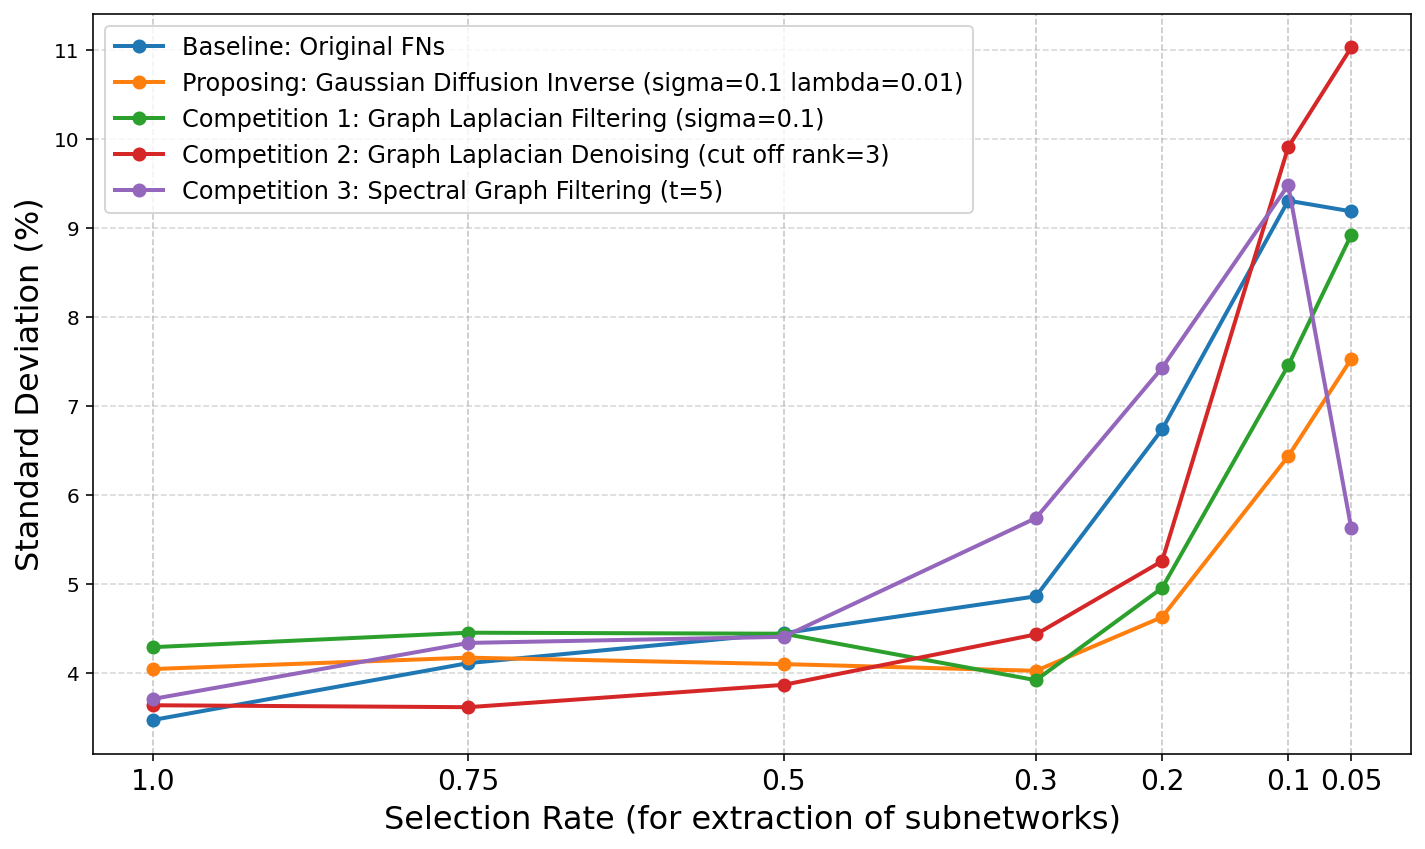
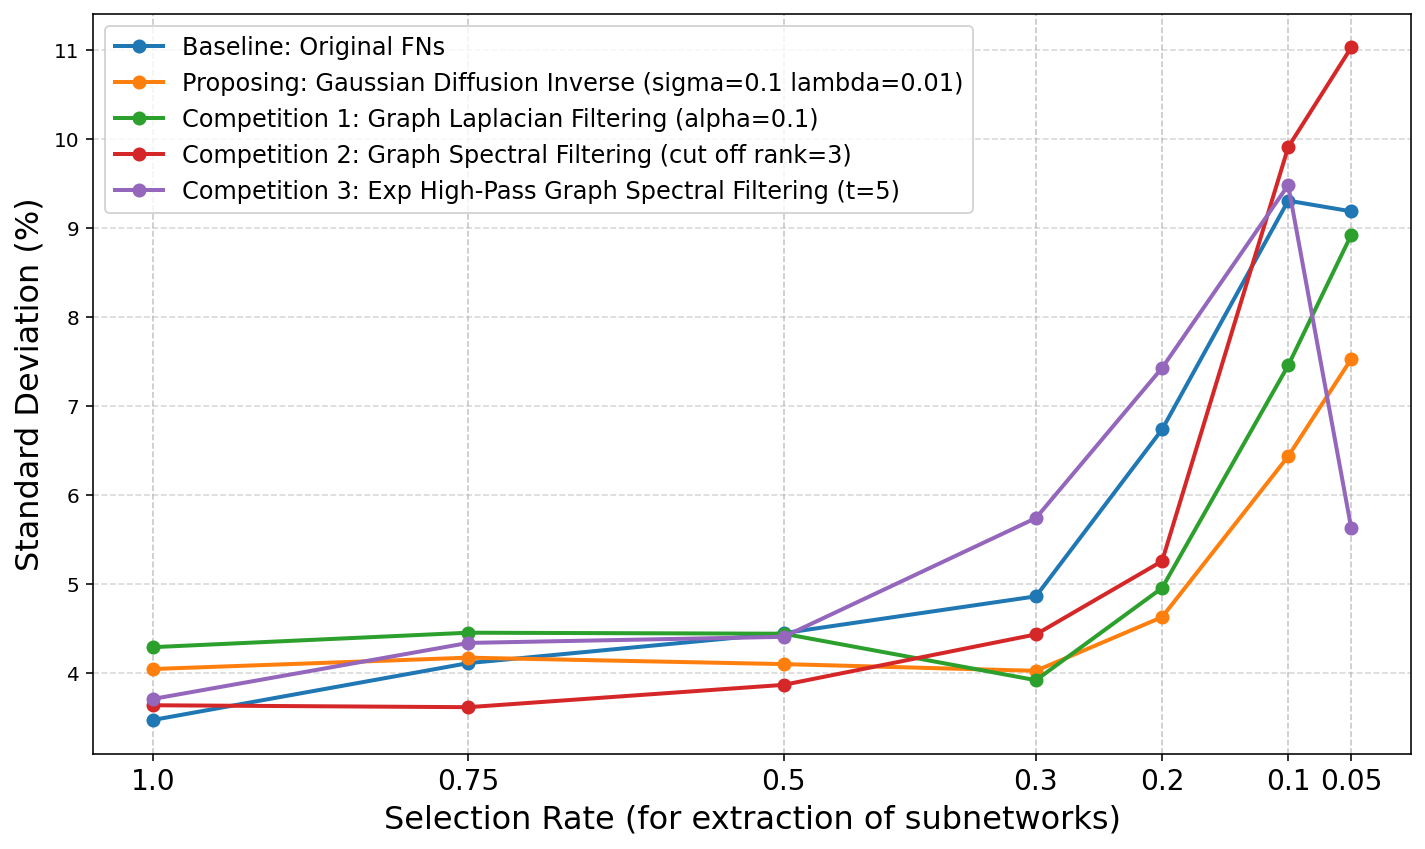
20250828

Changed region(s): [[0.247, 0.1225, 0.6484, 0.245]]

diff --git a/line_chart_data.py b/line_chart_data.py
@@ -15,9 +15,9 @@ class data:
 identifier_sm = [
     "Baseline: Original FNs",
     "Proposing: Gaussian Diffusion Inverse (sigma=0.1 lambda=0.01)",
-    "Competition 1: Graph Laplacian Filtering (sigma=0.1)",
-    "Competition 2: Graph Laplacian Denoising (cut off rank=3)",
-    "Competition 3: Spectral Graph Filtering (t=5)",
+    "Competition 1: Graph Laplacian Filtering (alpha=0.1)",
+    "Competition 2: Graph Spectral Filtering (cut off rank=3)",
+    "Competition 3: Exp High-Pass Graph Spectral Filtering (t=5)",
 ]
 
 summary_pcc_accuracy = {
@@ -101,13 +101,13 @@ summary_data_plv = data(identifier_sm, summary_plv_accuracy, summary_plv_f1score
 
 # %% appendix_data_pcc_graph_laplacian
 identifier_gl = [
-    "Graph Laplacian Filtering (sigma=0.05)",
-    "Graph Laplacian Filtering (sigma=0.1)",
-    "Graph Laplacian Filtering (sigma=0.25)",
-    "Graph Laplacian Filtering (sigma=0.5)",
-    "Graph Laplacian Filtering (sigma=0.8)",
-    "Graph Laplacian Filtering (sigma=1.2)",
-    "Graph Laplacian Filtering (sigma=2.0)"
+    "Graph Laplacian Filtering (alpha=0.05)",
+    "Graph Laplacian Filtering (alpha=0.1)",
+    "Graph Laplacian Filtering (alpha=0.25)",
+    "Graph Laplacian Filtering (alpha=0.5)",
+    "Graph Laplacian Filtering (alpha=0.8)",
+    "Graph Laplacian Filtering (alpha=1.2)",
+    "Graph Laplacian Filtering (alpha=2.0)"
 ]
 
 gl_pcc_accuracy = {
@@ -158,9 +158,9 @@ appendix_data_pcc_gl = data(identifier_gl, gl_pcc_accuracy, gl_pcc_f1score)
 
 # %% appendix_data_pcc_graph laplacian denoising
 identifier_ld = [
-    "Graph Laplacian Denoising (cut off rank=3)",
-    "Graph Laplacian Denoising (cut off rank=5)",
-    "Graph Laplacian Denoising (cut off rank=7)"
+    "Graph Spectral Laplacian (cut off rank=3)",
+    "Graph Spectral Denoising (cut off rank=5)",
+    "Graph Spectral Denoising (cut off rank=7)"
 ]
 
 ld_pcc_accuracy = {   
@@ -195,10 +195,10 @@ appendix_data_pcc_ld = data(identifier_ld, ld_pcc_accuracy, ld_pcc_f1score)
 
 # %% appendix_data_pcc_spectral graph filtering
 identifier_sgf = [
-    "Spectral Graph Filtering (t=1)",
-    "Spectral Graph Filtering (t=5)",
-    "Spectral Graph Filtering (t=10)",
-    "Spectral Graph Filtering (t=20)"
+    "Exp High-Pass Graph Spectral Filtering (t=1)",
+    "Exp High-Pass Graph Spectral Filtering (t=5)",
+    "Exp High-Pass Graph Spectral Filtering (t=10)",
+    "Exp High-Pass Graph Spectral Filtering (t=20)"
 ]
 
 sgf_pcc_accuracy = {   
@@ -239,13 +239,13 @@ appendix_data_pcc_sgf = data(identifier_sgf, sgf_pcc_accuracy, sgf_pcc_f1score)
 
 # %% appendix_data_plv_graph_laplacian
 identifier_gl = [
-    "Graph Laplacian Filtering (sigma=0.05)",
-    "Graph Laplacian Filtering (sigma=0.1)",
-    "Graph Laplacian Filtering (sigma=0.25)",
-    "Graph Laplacian Filtering (sigma=0.5)",
-    "Graph Laplacian Filtering (sigma=0.8)",
-    "Graph Laplacian Filtering (sigma=1.2)",
-    "Graph Laplacian Filtering (sigma=2.0)"
+    "Graph Laplacian Filtering (alpha=0.05)",
+    "Graph Laplacian Filtering (alpha=0.1)",
+    "Graph Laplacian Filtering (alpha=0.25)",
+    "Graph Laplacian Filtering (alpha=0.5)",
+    "Graph Laplacian Filtering (alpha=0.8)",
+    "Graph Laplacian Filtering (alpha=1.2)",
+    "Graph Laplacian Filtering (alpha=2.0)"
 ]
 
 gl_plv_accuracy = {
@@ -296,9 +296,9 @@ appendix_data_plv_gl = data(identifier_gl, gl_plv_accuracy, gl_plv_f1score)
 
 # %% appendix_data_pcc_graph laplacian denoising
 identifier_ld = [
-    "Graph Laplacian Denoising (cut off rank=3)",
-    "Graph Laplacian Denoising (cut off rank=5)",
-    "Graph Laplacian Denoising (cut off rank=7)"
+    "Graph Spectral Laplacian (cut off rank=3)",
+    "Graph Spectral Denoising (cut off rank=5)",
+    "Graph Spectral Denoising (cut off rank=7)"
 ]
 
 ld_plv_accuracy = {   
@@ -334,10 +334,10 @@ appendix_data_plv_ld = data(identifier_ld, ld_plv_accuracy, ld_plv_f1score)
 
 # %% appendix_data_pcc_spectral graph filtering
 identifier_sgf = [
-    "Spectral Graph Filtering (t=1)",
-    "Spectral Graph Filtering (t=5)",
-    "Spectral Graph Filtering (t=10)",
-    "Spectral Graph Filtering (t=20)"
+    "Exp High-Pass Graph Spectral Filtering (t=1)",
+    "Exp High-Pass Graph Spectral Filtering (t=5)",
+    "Exp High-Pass Graph Spectral Filtering (t=10)",
+    "Exp High-Pass Graph Spectral Filtering (t=20)"
 ]
 
 sgf_plv_accuracy = {   

diff --git a/line_chart.py b/line_chart.py
@@ -576,5 +576,5 @@ def main_appendix():
 
 # %% main
 if __name__ == "__main__":
-    main_summary()
+    # main_summary()
     main_appendix()
